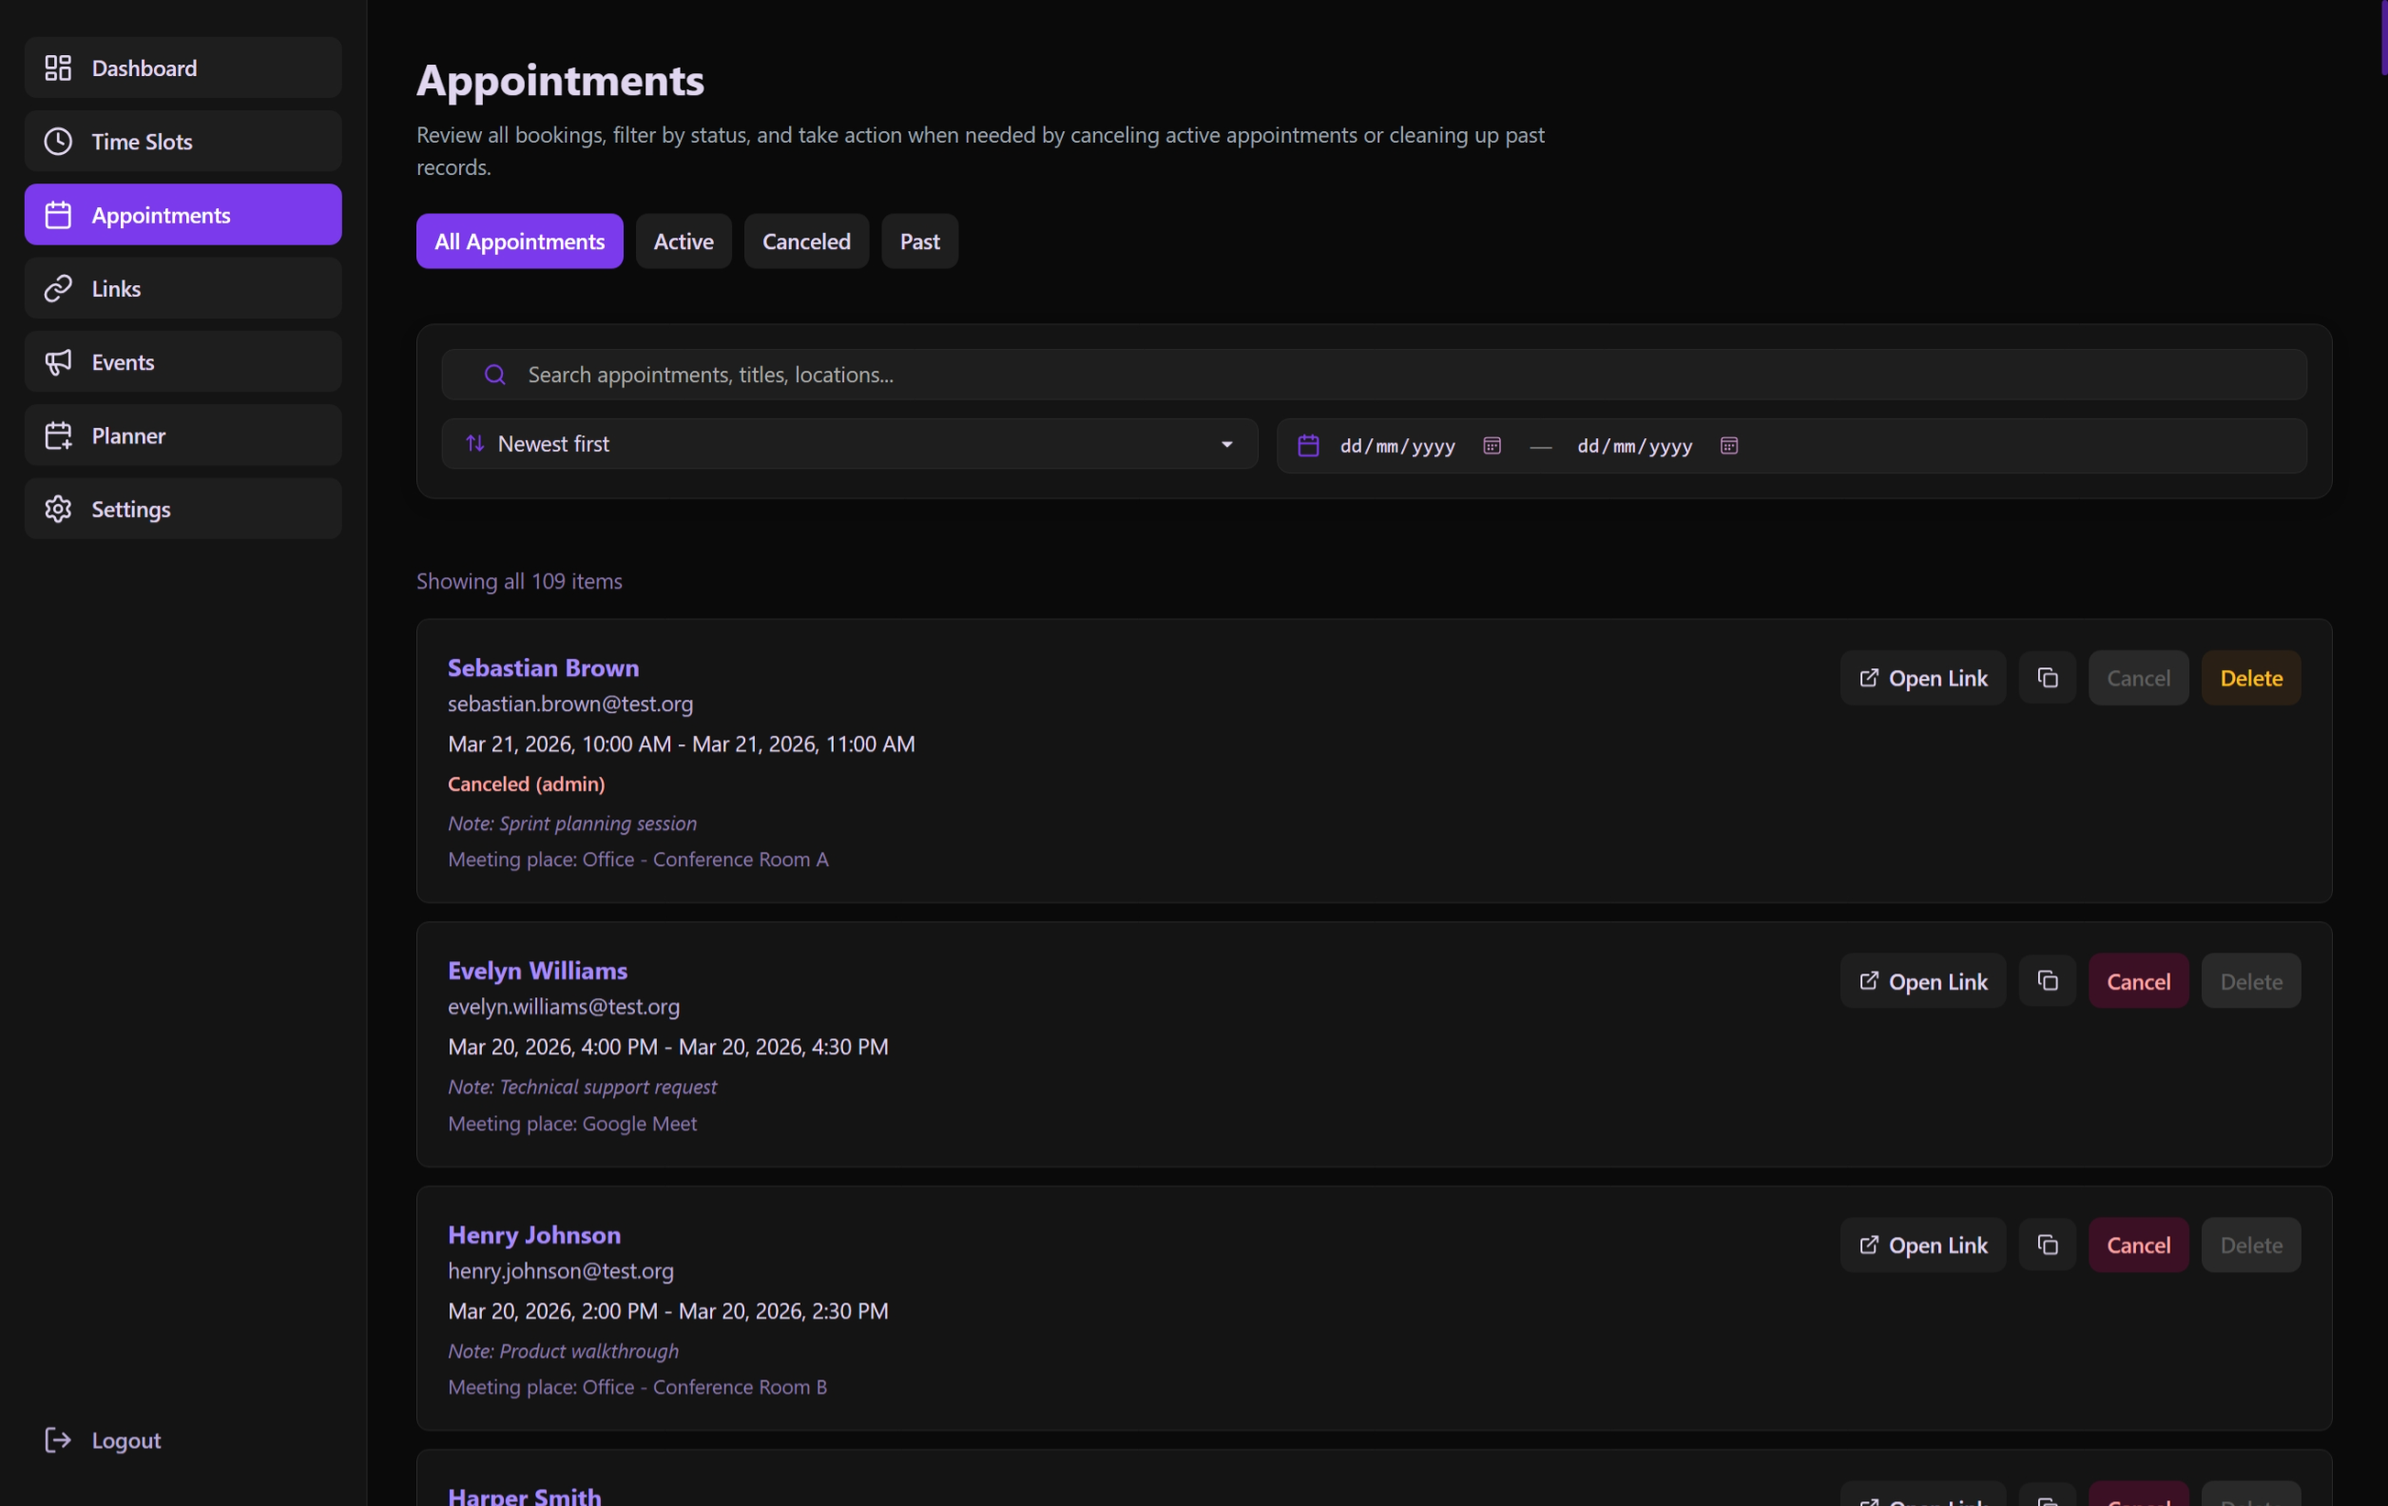
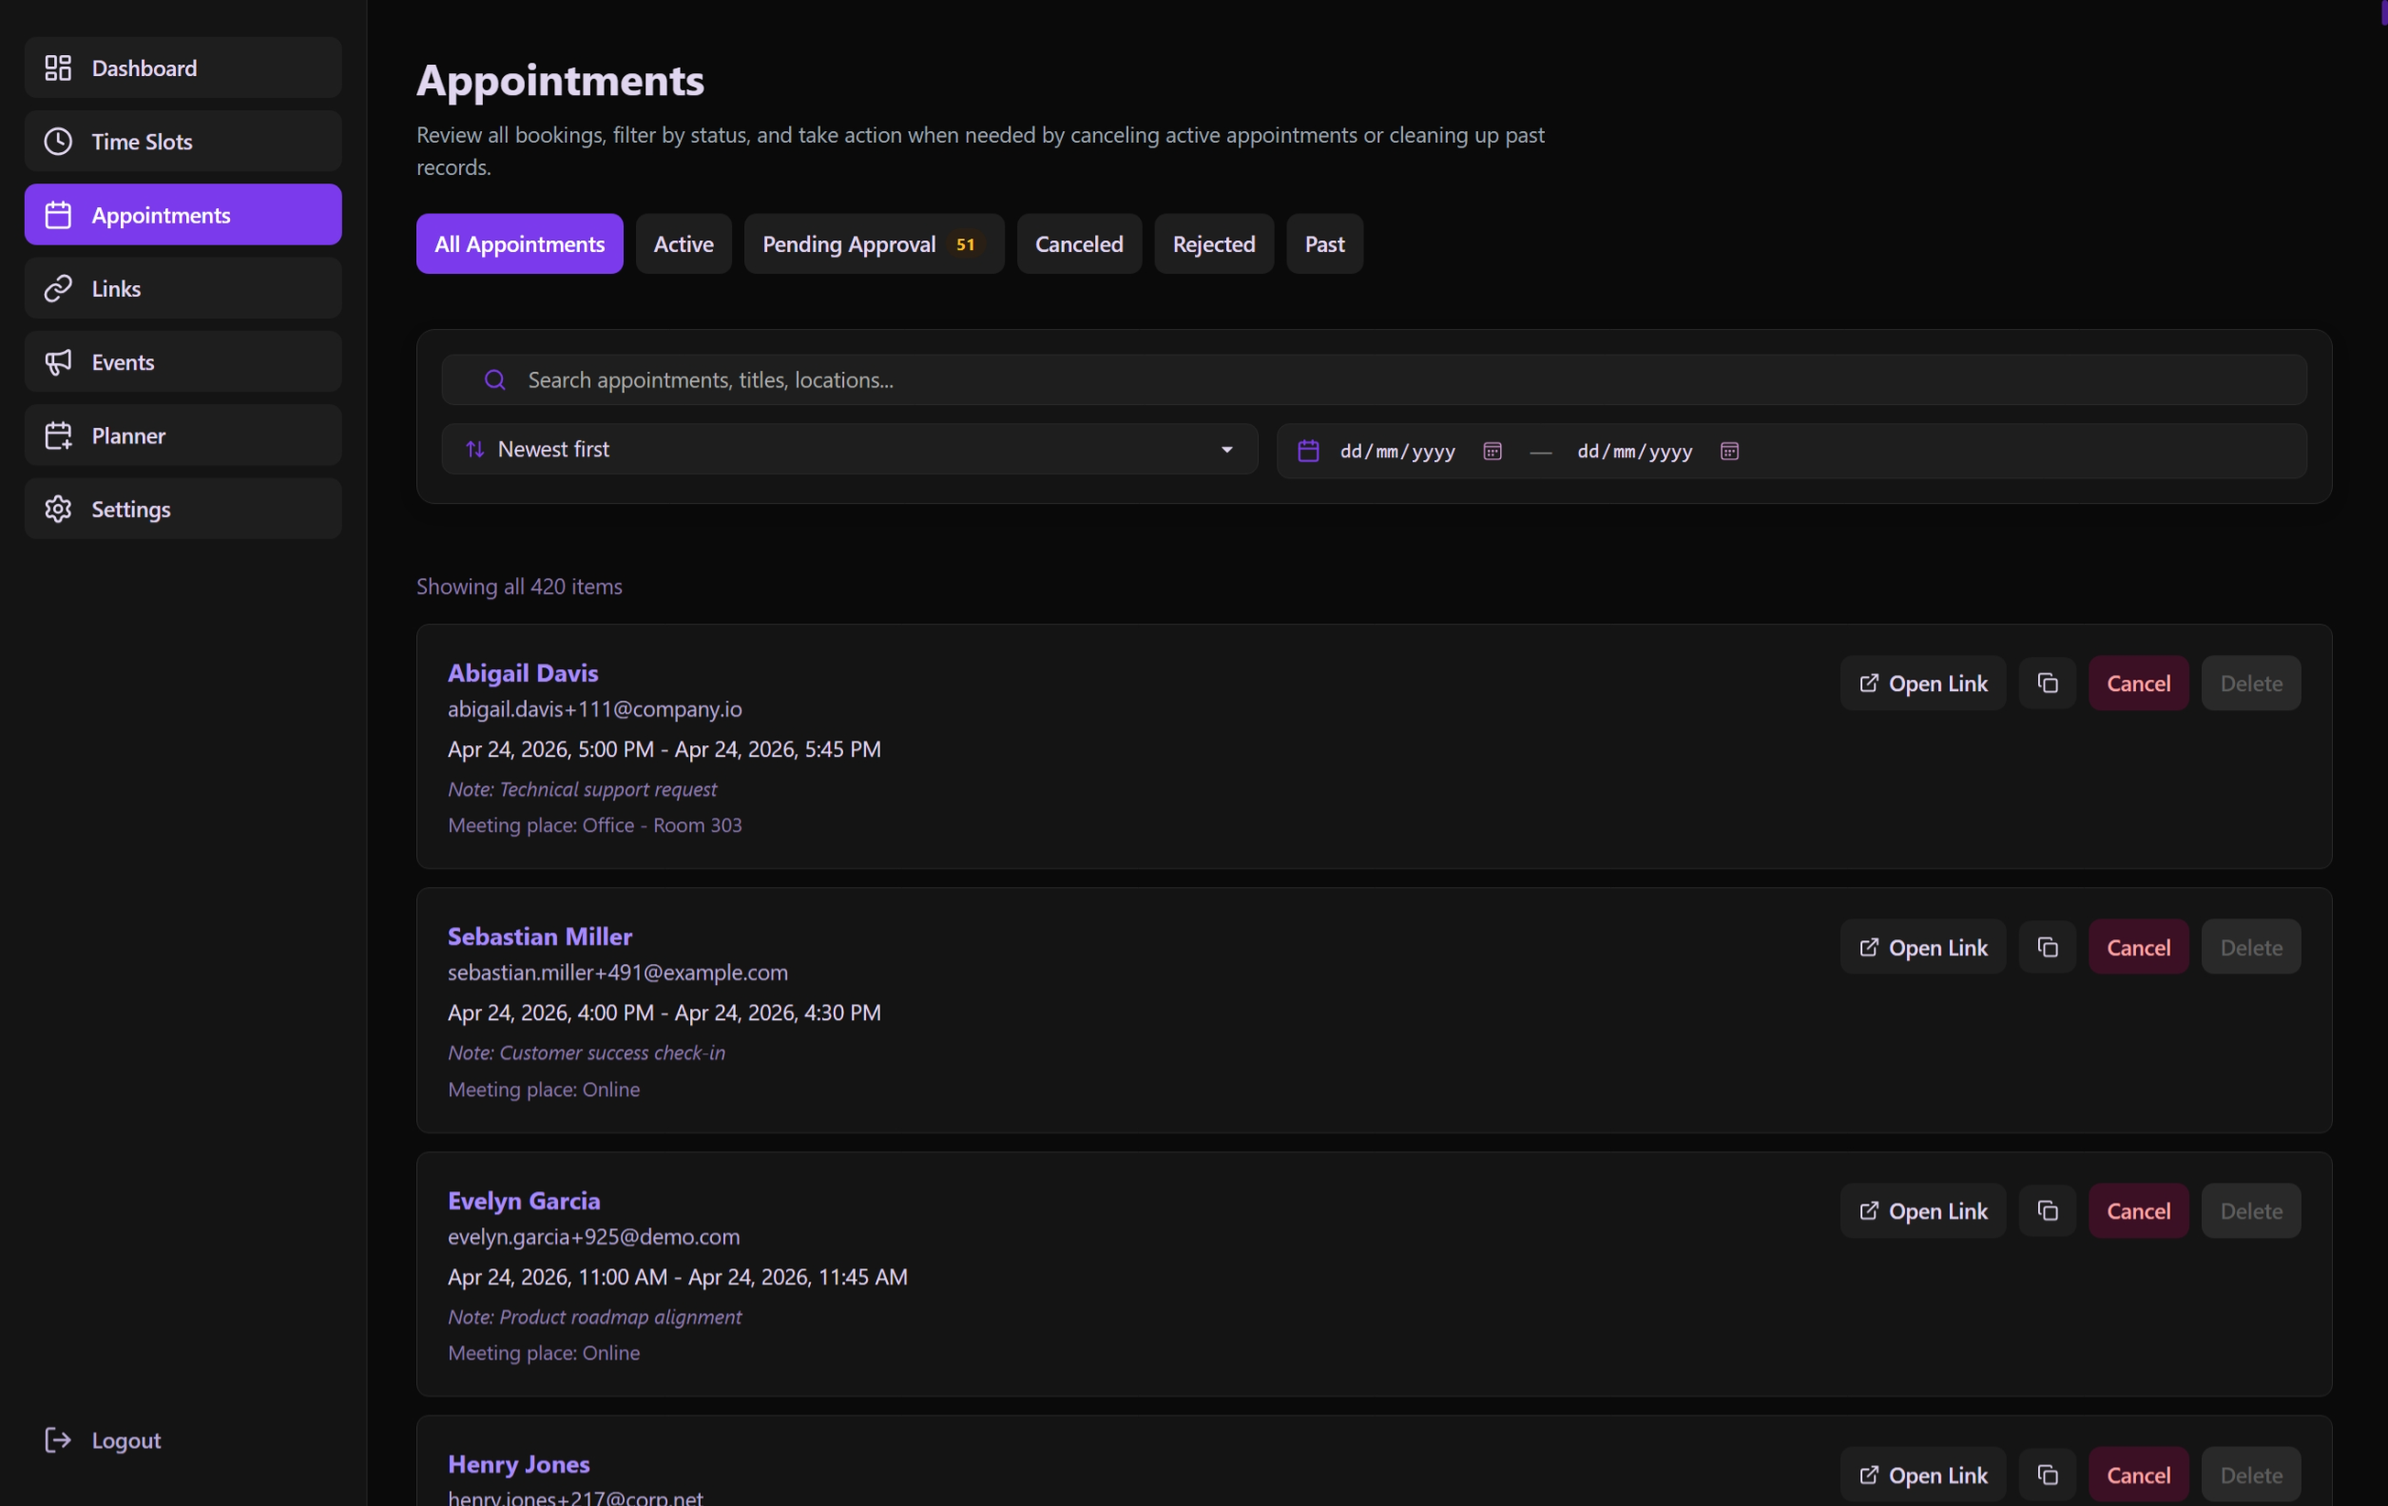
Refactor code structure for improved readability and maintainability

diff --git a/src/docs/pages/appointment-detail.md b/src/docs/pages/appointment-detail.md
@@ -37,6 +37,8 @@ The page identifies the appointment via a unique `slugId` rather than an integer
 ### Dynamic States
 
 - **Loading**: Fetching appointment data from `api.getPublicAppointment(slugId)`.
+- **Pending Approval**: If the booking requires administrative review, a "Request Sent!" notice is shown to the guest.
+  ![Pending Approval](/screenshots/appointments/appointment_link_need_approve.png)
 - **Already Canceled**: If the appointment is canceled, the interface transforms to show a status notice, and the "Cancel" button is removed.
 - **Error Handling**: Displays clear messages if the appointment cannot be found or the link is invalid.
 

diff --git a/src/docs/pages/screenshots.md b/src/docs/pages/screenshots.md
@@ -97,6 +97,9 @@ The private portal for guests to review their specific booking and manage its st
 ![Appointment Detail](/screenshots/appointments/appointment_link.png)
 _The guest's personal "digital receipt" and self-service management hub._
 
+![Pending Approval](/screenshots/appointments/appointment_link_need_approve.png)
+_The view for appointments requiring administrative approval before confirmation._
+
 ## Community Approval
 
 The crowdsourced voting interface where pending events reach their activation threshold.
